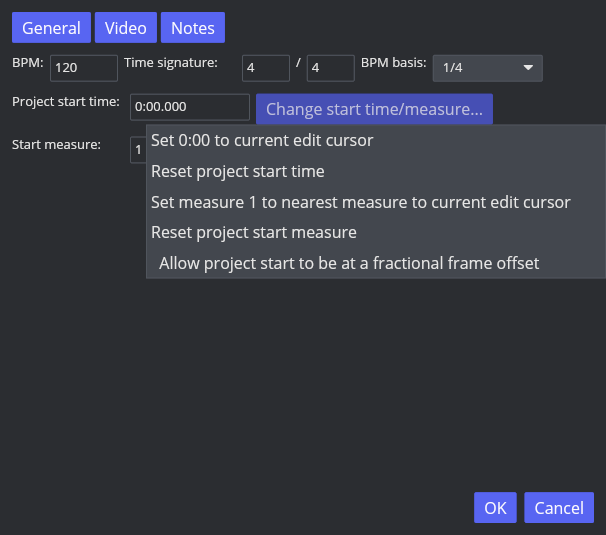
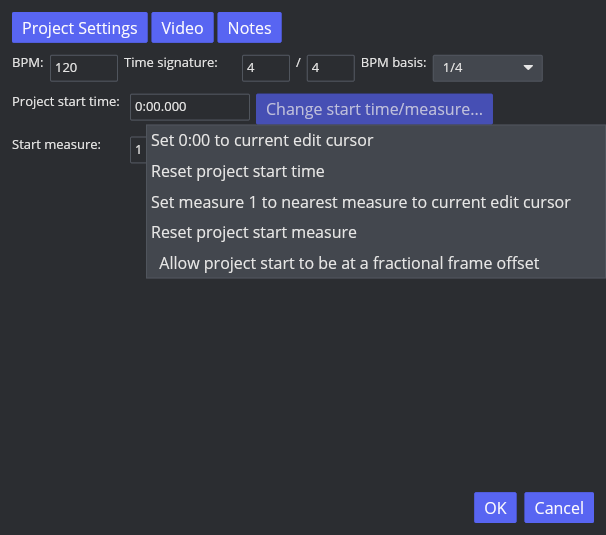
fix(project-settings): match native first tab label

Changed region(s): [[0.0297, 0.0, 0.4752, 0.0897]]

diff --git a/crates/aaadaw/src/app/project_settings.rs b/crates/aaadaw/src/app/project_settings.rs
@@ -482,7 +482,8 @@ pub(super) fn view(app: &App) -> Element<'_, Message> {
     container(
         column![
             row![
-                button("General").on_press(Message::ProjectSettingsTabChanged(Tab::General)),
+                button("Project Settings")
+                    .on_press(Message::ProjectSettingsTabChanged(Tab::General)),
                 button("Video").on_press(Message::ProjectSettingsTabChanged(Tab::Video)),
                 button("Notes").on_press(Message::ProjectSettingsTabChanged(Tab::Notes))
             ]

diff --git a/docs/reaper-parity/project-settings-general.md b/docs/reaper-parity/project-settings-general.md
@@ -1,6 +1,6 @@
 # Project Settings General（阶段实现）
 
-固定参照 Linux REAPER 7.82 / Default 7 / factory。General 页原厂默认 BPM 120、Time signature 4/4、Project start time `0:00.000`、Start measure 1、BPM basis 1/4、Base ruler label spacing 开启，与[原厂设置窗口的数值记录](project-settings-general-reference.json)互证。AAADAW 将 BPM、拍号和 BPM basis 放在同一行；Project start time 在下一行，Start measure 与动态显示其锚定小节编号的勾选框再下一行。原厂其他占位控件补齐时再对齐完整垂直分组。复现确认：勾选时等距尺标标签间隔以工程起始小节为相位，取消后以小节 1 为相位。
+固定参照 Linux REAPER 7.82 / Default 7 / factory。AAADAW 第一页签现在使用原厂标签 `Project Settings`；当前只实现了其 General 子集，原厂 Media 与 Advanced 页签及完整设置仍缺。General 页原厂默认 BPM 120、Time signature 4/4、Project start time `0:00.000`、Start measure 1、BPM basis 1/4、Base ruler label spacing 开启，与[原厂设置窗口的数值记录](project-settings-general-reference.json)互证。AAADAW 将 BPM、拍号和 BPM basis 放在同一行；Project start time 在下一行，Start measure 与动态显示其锚定小节编号的勾选框再下一行。原厂其他控件补齐时再对齐完整垂直分组。复现确认：勾选时等距尺标标签间隔以工程起始小节为相位，取消后以小节 1 为相位。
 
 起始时间/小节弹出菜单的 AAADAW 界面证据：[默认未勾选](../verification/reaper-parity/project-settings-ui/general-start-time-menu.png)与[勾选 fractional-frame 选项](../verification/reaper-parity/project-settings-ui/general-start-time-menu-fractional-frame-on.png)。
 

diff --git a/docs/reaper-parity/progress.md b/docs/reaper-parity/progress.md
@@ -211,3 +211,7 @@ General 仍缺采样率、timebase、resampling、pitch 等原厂控件；矩阵
 REAPER 7.82 原厂菜单确认第五项 `Allow project start to be at a fractional frame offset` 默认关闭。隔离 RPP 对照显示该开关对应 `TIMEMODE` 最后一字段 `0`/`4`；编辑光标为 0.025 秒且开关关闭时，原厂“Set 0:00 to current edit cursor”仍将起始时间设为 -0.025 秒，因此这不是禁止小数秒的开关。AAADAW 将它接入菜单勾选状态、General 草稿、单次提交/Undo、Core 状态和 schema 33；旧 schema 32 默认关闭。其视频/时码对齐效果尚未确认，当前只实现并保存了原厂开关状态，不宣称完整语义对齐。
 
 针对这项切片的 Core、Storage 和 UI 回归覆盖 Undo/事务、schema 32 默认值及 round-trip、非法存储值拒绝和菜单勾选状态。真实 AAADAW X11 窗口验证了默认未勾选、点击后勾选以及菜单重开保留草稿勾选态；对应两张截图已纳入证据。audio-device workspace 全量测试、Clippy `-D warnings`、fmt/diff、reference JSON 和 parity CSV 校验通过。矩阵 `PROJECT-TEMPO-METER-SETTINGS-001` 与 P10 继续 `in_progress`，General 采样率、timebase、resampling、pitch 和其余页面仍待实施。
+
+### 2026-10-11 Project Settings 原厂第一页签标签
+
+原厂窗口核对确认第一页签的完整标签为 `Project Settings`，原来使用的 `General` 是子页简称。AAADAW 将页签文字改为原厂名称并在 X11 实际窗口复核；当前页仍只提供已实现的 General 子集，原厂 Media、Advanced 页签及大量 General 控件继续作为未完成项登记。默认 General 与起始时间菜单截图已更新，不将标签对齐误记为页面完成。
